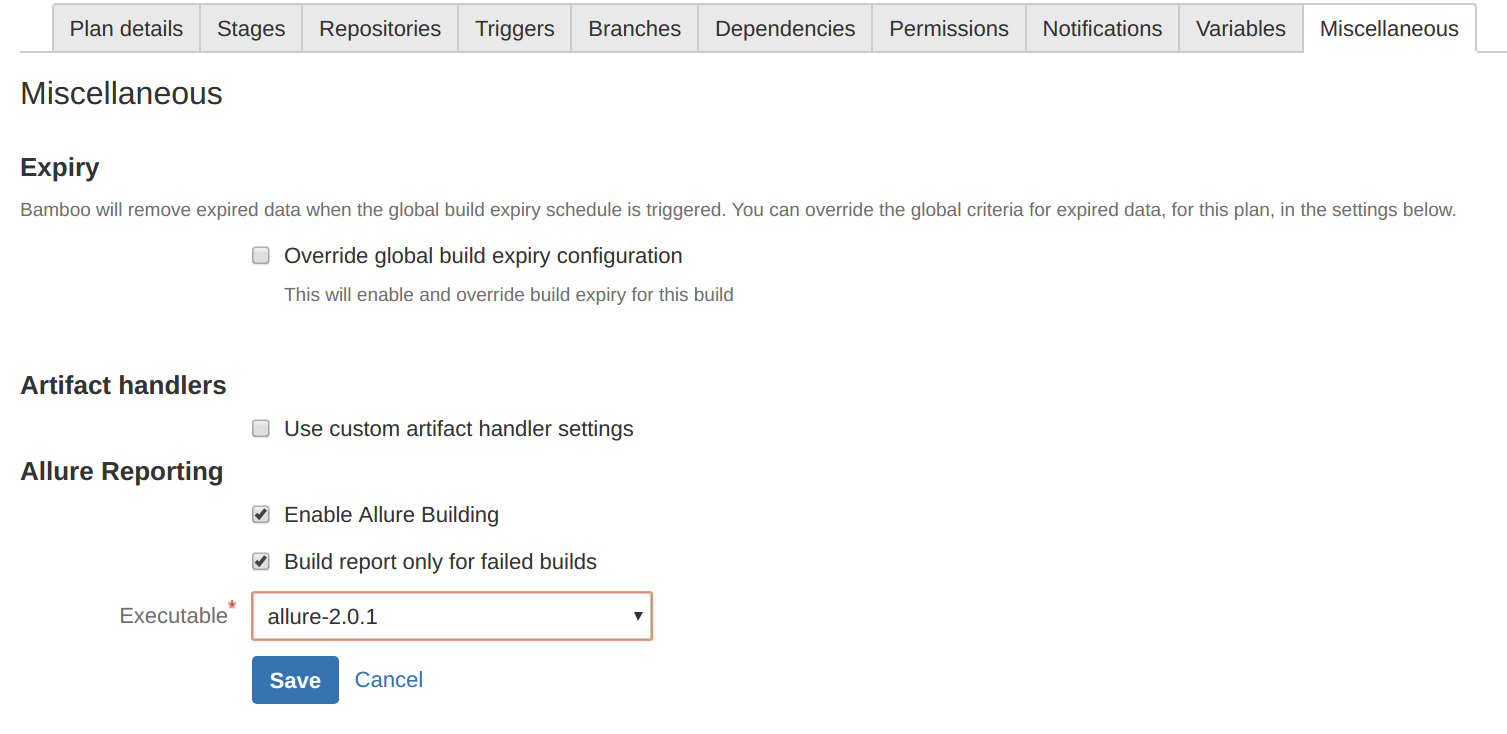
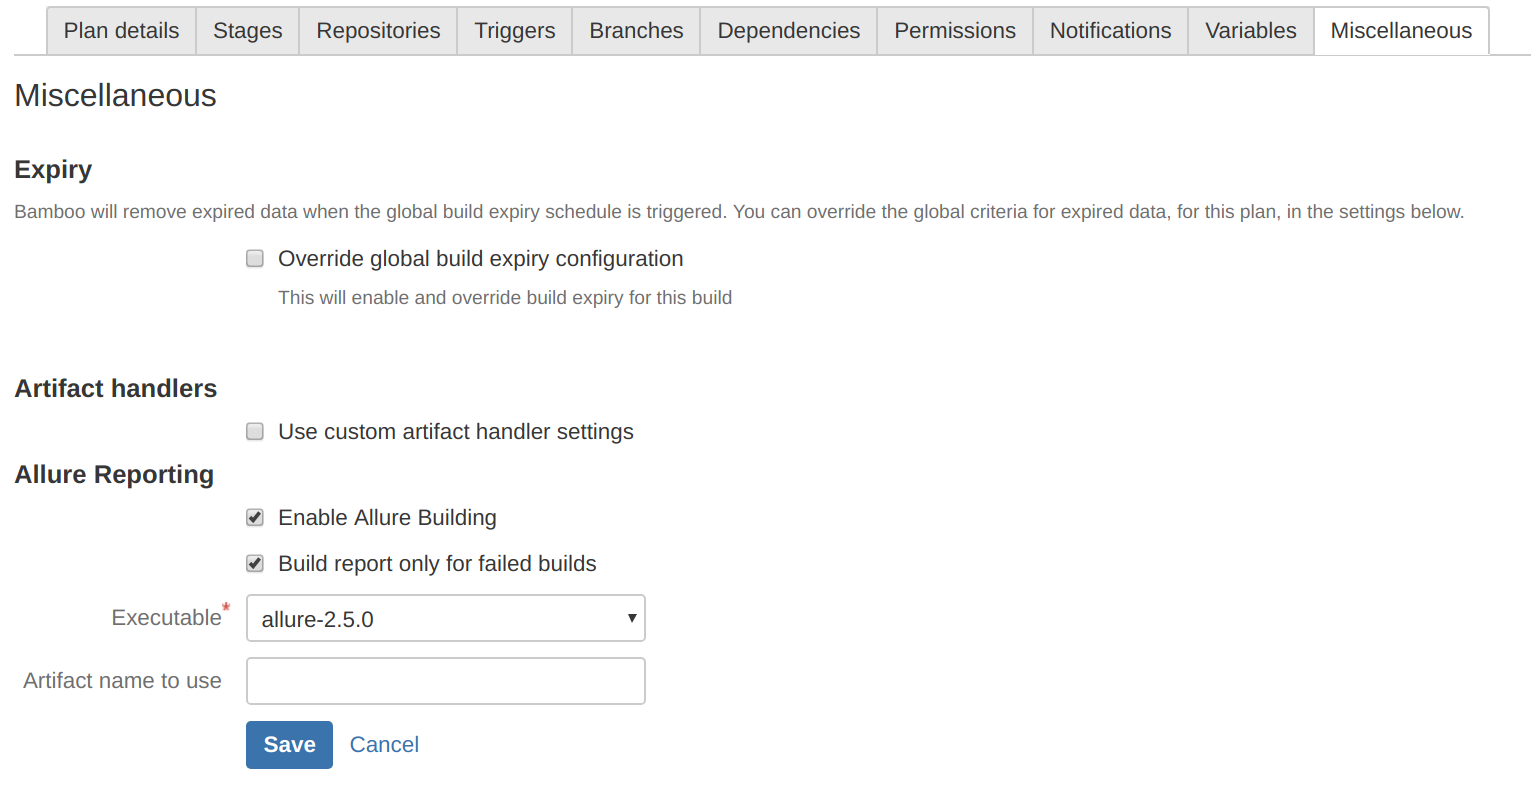
Generated by gradle-git-publish

diff --git a/index.html b/index.html
@@ -6204,6 +6204,15 @@ plan later:</p>
 </div>
 </li>
 <li>
+<p>You can select different versions of Allure executable on per-plan basis. You may decide to build reports for the
+failed builds only (by checking the respective checkbox).</p>
+</li>
+<li>
+<p>If your build plan produces many different types of the artifacts, you may want to select the specific name of the
+artifact with the Allure results, which Allure Bamboo plugin will use (by typing it in "Artifact name to use" textbox).
+The most common name for this is "allure-results".</p>
+</li>
+<li>
 <p>Ensure that your build <a href="https://github.com/allure-framework/allure-core/wiki#gathering-information-about-tests)">generates Allure result files</a>.</p>
 </li>
 <li>
@@ -7646,7 +7655,7 @@ with junit test results, a report will be generated.</p>
 </div>
 <div id="footer">
 <div id="footer-text">
-Last updated 2018-02-13 10:56:45 +00:00
+Last updated 2018-02-14 11:52:54 +00:00
 </div>
 </div>
 <!-- Yandex.Metrika counter -->
